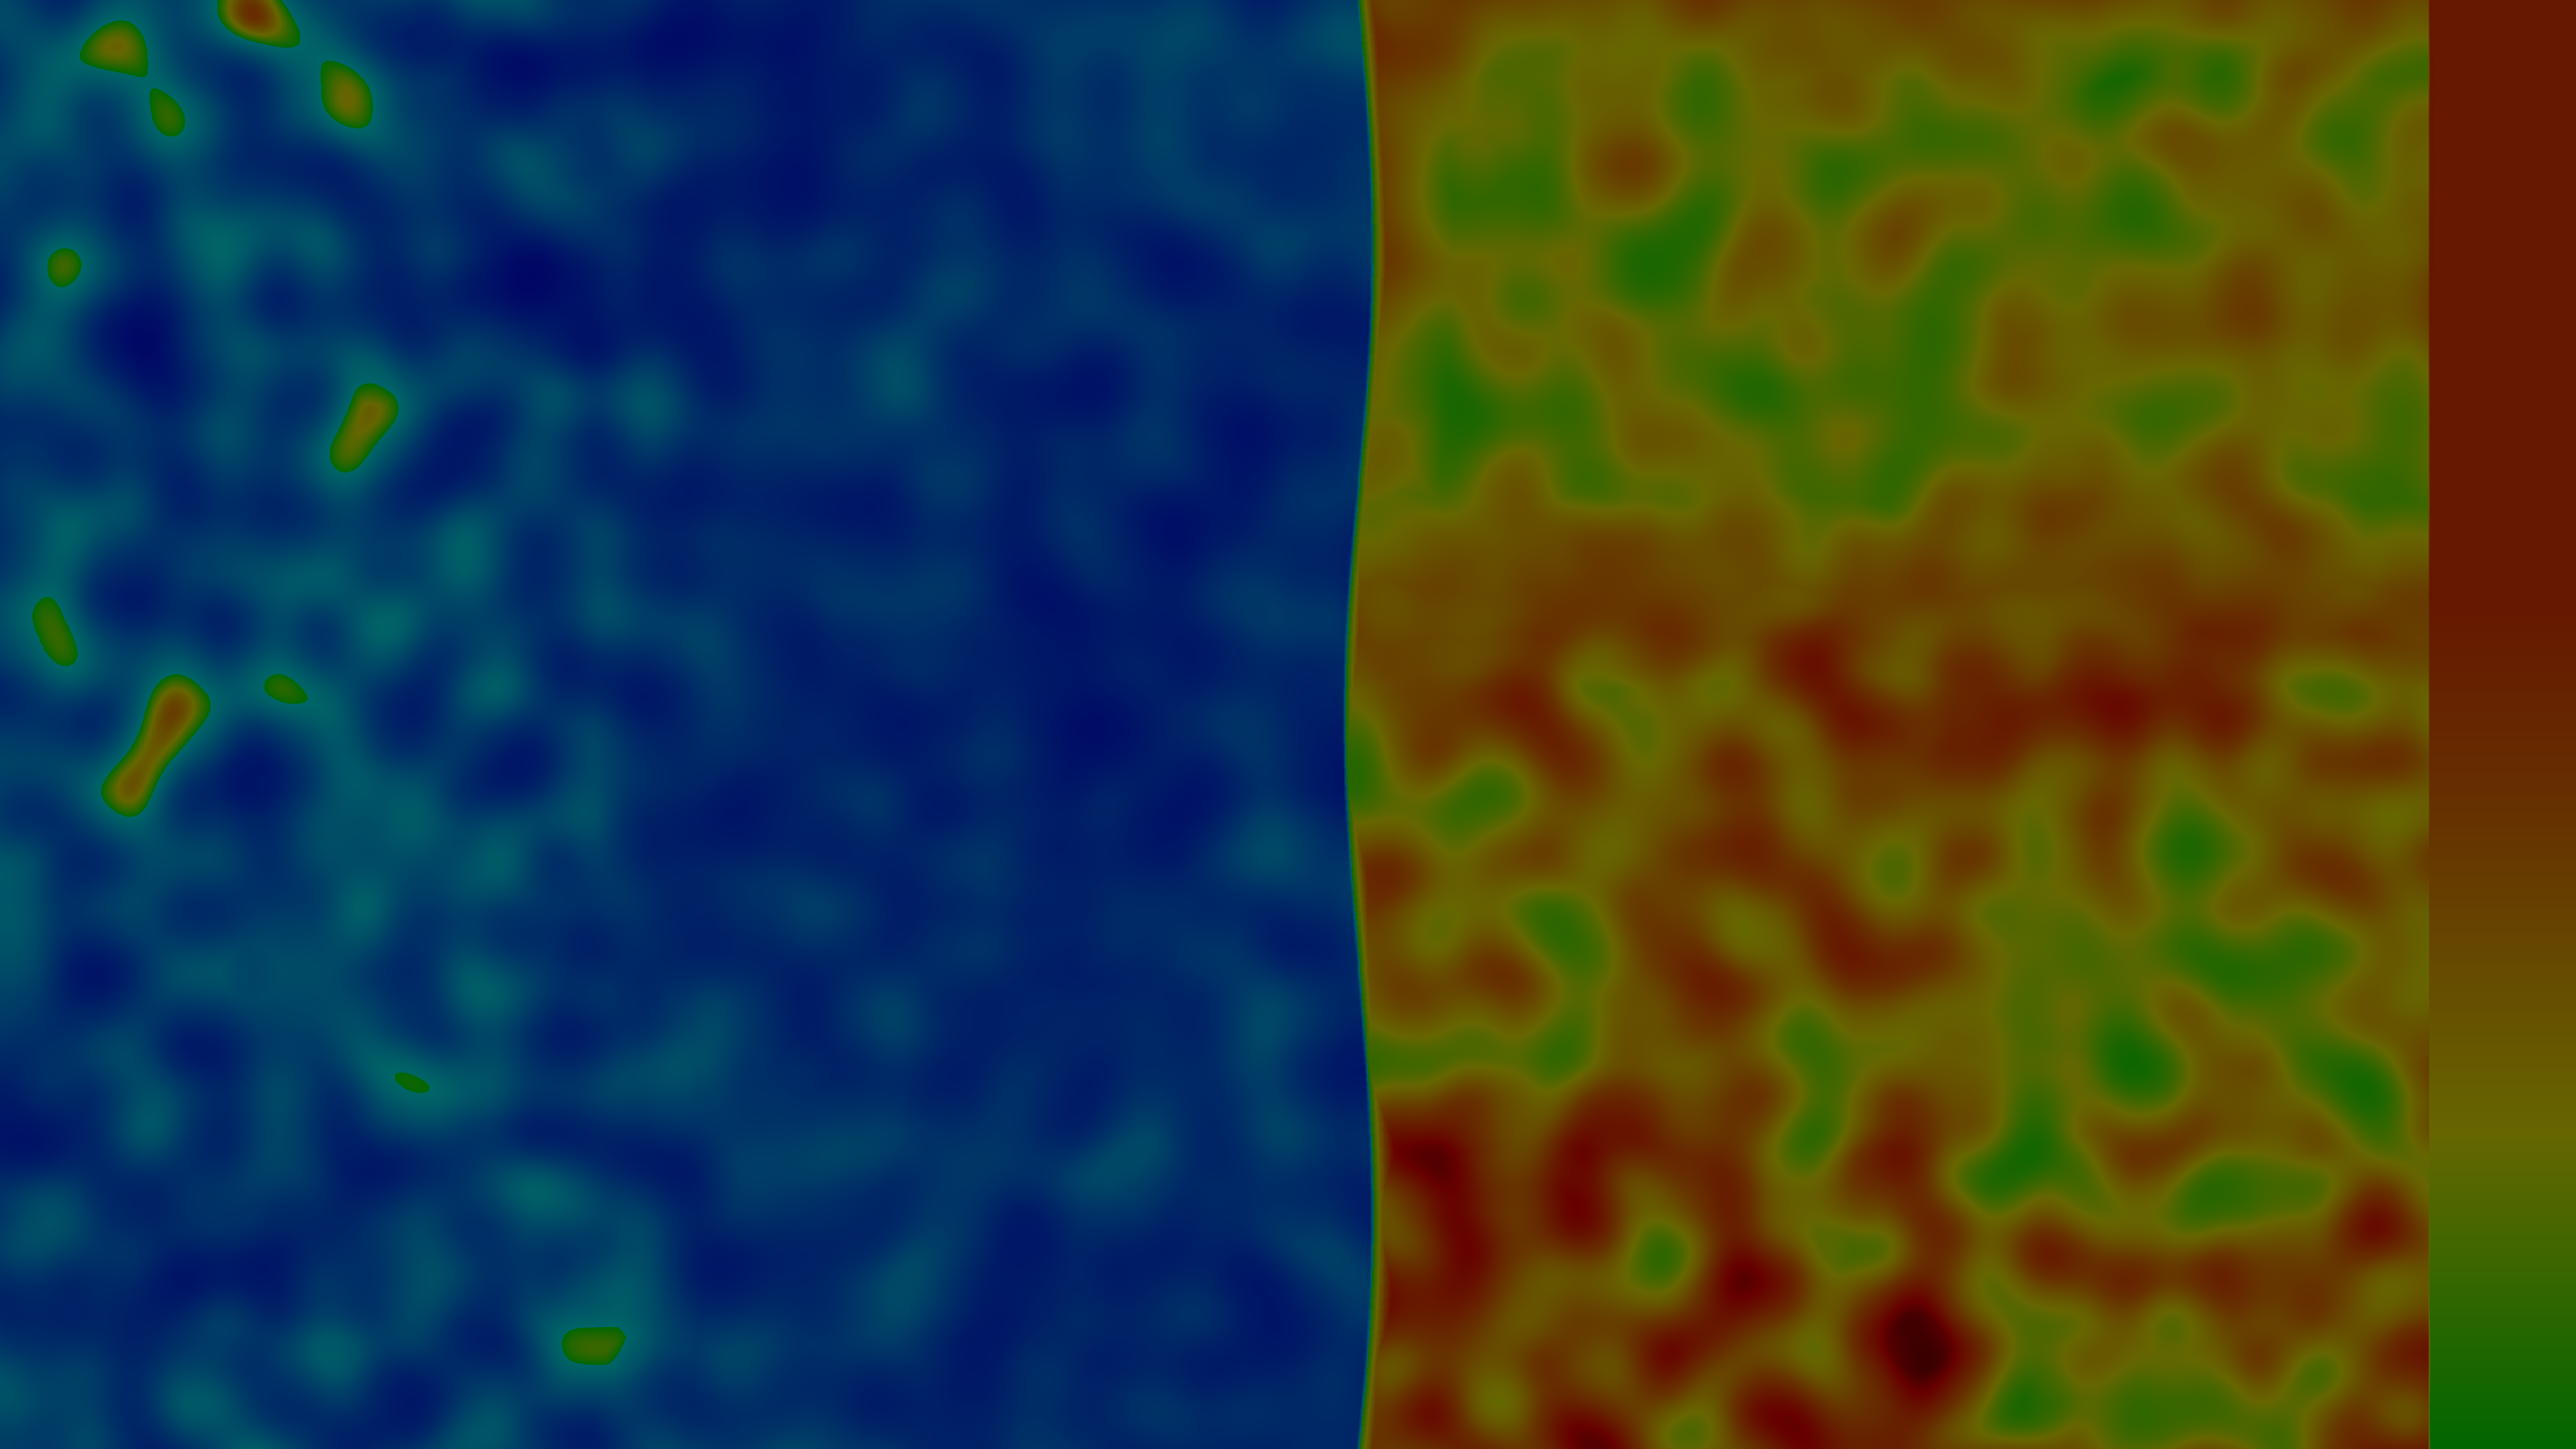
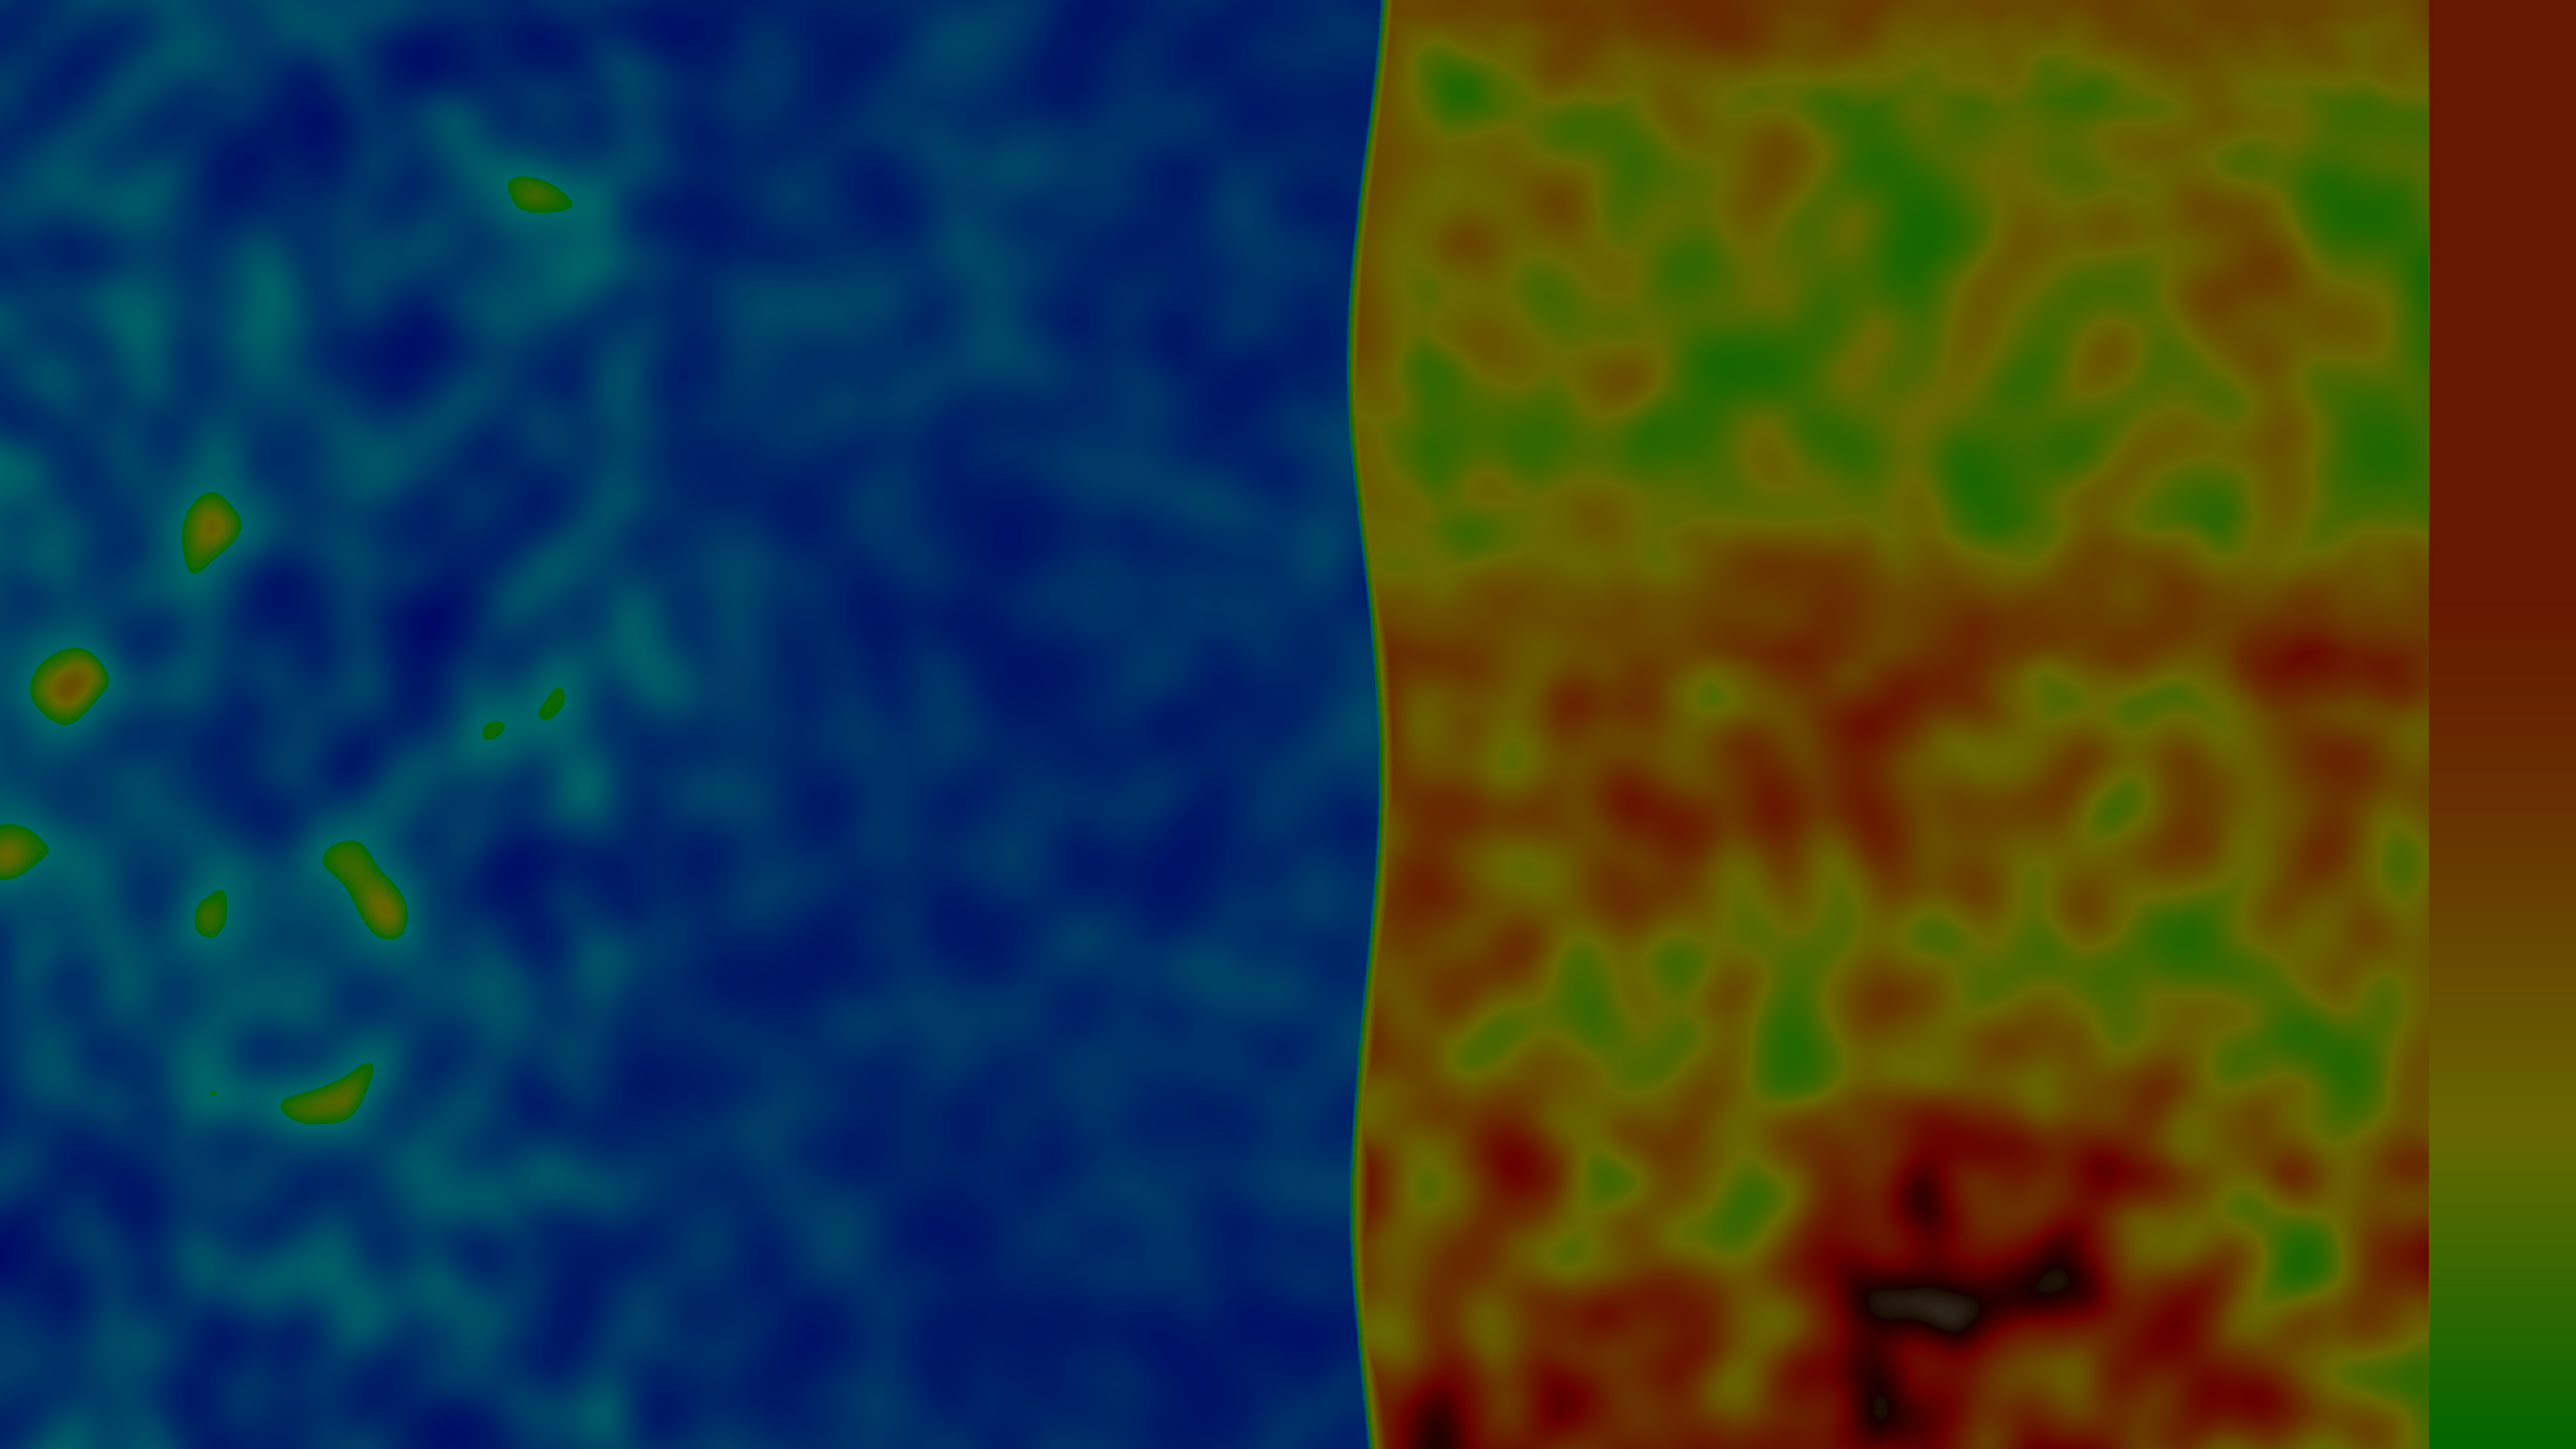
Add seasonal rainfall variation.

diff --git a/src/constants.rs b/src/constants.rs
@@ -26,13 +26,9 @@ pub const STEPS_PER_DAY: f32 = 24.0 * 6.0;
 pub const YEARS_PER_STEP: f32 = 1.0 / DAYS_PER_YEAR / STEPS_PER_DAY;
 // Above numbers are in inches per year, this can be adjusted to e.g. feet per year.
 pub const RAINFALL_FACTOR: f32 = YEARS_PER_STEP / 12.0;
-// Some dubiously realistic back-of-the-envelope math suggests maybe I should use 16.0 here,
-// but maybe I forgot a unit conversion? A multipler of about 500x is the absolute limit
-// before too little water from the main river will reach the sea.
-pub const EVAPORATION_FACTOR: f32 = RAINFALL_FACTOR * 16.0;
-
-pub const TIDES_PER_DAY: f32 = 1.933;
-pub const TIDE_INTERVAL_STEPS: f32 = STEPS_PER_DAY / TIDES_PER_DAY;
+// Some dubiously realistic back-of-the-envelope math suggested maybe I should use 4/3 and a threshold of 18 feet.
+// Or maybe 2.4 and a threshold of 10 feet?
+pub const EVAPORATION_FACTOR: f32 = YEARS_PER_STEP * 0.2;
 
 pub const ONE_DEGREE_LATITUDE_MILES: f32 = 69.05817;
 pub const RIVER_Y: usize = (4.5 * ONE_DEGREE_LATITUDE_MILES * 2.0) as usize;
@@ -51,12 +47,13 @@ pub const DELTA_SEED_WIDTH: usize = 0;
 // River runs through north desert
 pub const NORTH_DESERT_WIDTH: usize = MAIN_RIVER_WIDTH + DELTA_SEED_WIDTH;
 pub const COAST_WIDTH: usize = (72.0 * 2.0 / HEX_FACTOR) as usize;
-pub const COAST_FRINGE: usize = 12;
+pub const COAST_FRINGE: usize = 18;
 pub const NE_BASIN_FRINGE: usize = 4;
 pub const NORTH_DESERT_RAIN: f32 = (COAST_WIDTH as f32 * LOW_RAIN + (NORTH_DESERT_WIDTH - COAST_WIDTH) as f32 * VERY_LOW_RAIN) * NORTH_DESERT_HEIGHT as f32;
 // Rain on the part of the central highland whose east-west extent corresponds to the north desert.
 pub const MAIN_CENTRAL_HIGHLAND_RAIN: f32 = (COAST_WIDTH as f32 * MEDIUM_RAIN + (NORTH_DESERT_WIDTH - COAST_WIDTH) as f32 * LOW_RAIN) * CENTRAL_HIGHLAND_HEIGHT as f32;
 // An attempt to balance water in north and central regions mathematically.
+// TODO: Maybe fix at 140?
 pub const NE_BASIN_WIDTH: usize = ((MAIN_CENTRAL_HIGHLAND_RAIN - NORTH_DESERT_RAIN) / (VERY_HIGH_RAIN * NE_BASIN_HEIGHT as f32)) as usize;
 pub const TOTAL_LAND_WIDTH: usize = NE_BASIN_WIDTH + NORTH_DESERT_WIDTH;
 
@@ -67,6 +64,7 @@ pub const ISLANDS_ZONE_WIDTH: usize = TOTAL_SEA_WIDTH - NO_ISLANDS_ZONE_WIDTH;
 pub const RIVER_SOURCE_X: usize = TOTAL_SEA_WIDTH + NORTH_DESERT_WIDTH - NE_BASIN_FRINGE + 1;
 pub const SEA_LEVEL: f32 = 0.0;
 // TODO: Do we still need this? Maybe for rainfall logic.
+// Could maybe replace this with a maximum depth of surface currents of 330 feet.
 pub const CONTINENTAL_SHELF_DEPTH: f32 = 1000.0;
 
 // With Perlin noise, actual elevation will likely be lower than these numbers.
@@ -83,9 +81,9 @@ pub const KE: f32 = 1.0 / 7.0; // erosion rate fraction
 // 0.015 results in less even filling and possibly tighter rivers.
 // Too high a value may result in water sloshing back and forth drilling
 // pits in lakes, not sure where the limit is though.
-pub const KD: f32 = 0.5; // deposition rate fraction
+pub const KD: f32 = 1.0 / 7.0; // deposition rate fraction
 
-pub const FLOW_FACTOR: f32 = 0.90;
+pub const FLOW_FACTOR: f32 = 0.9;
 // Might take 7k-10k rounds to carve out the river valley I want.
 pub const DEFAULT_ROUNDS: u32 = 4_800;
 // TODO: Might be nice to have two levels of water to display in generated images,
@@ -97,7 +95,7 @@ pub const DEFAULT_ROUNDS: u32 = 4_800;
 pub const WATER_THRESHOLD: f32 = 1.0 / 12.0; // Feet
 
 
-pub const MAX_SLOPE: f32 = 1.00;
+pub const MAX_SLOPE: f32 = 0.5;
 pub const MAX_FLOW: f32 = (HEX_SIZE as f32) * MAX_SLOPE;
 // Current highest of all max elevation constants.
 pub const MAX_ELEVATION: f32 = SEA_LEVEL + SOUTH_MOUNTAINS_MAX_ELEVATION;

diff --git a/src/gpu_simulation.rs b/src/gpu_simulation.rs
@@ -400,7 +400,7 @@ impl GpuSimulation {
         // Constants buffer (rain_per_step, hex_count) – rainfall shader
         let rain_constants_buffer = device.create_buffer(&wgpu::BufferDescriptor {
             label: Some("Rainfall Constants Buffer"),
-            size: std::mem::size_of::<[f32; 6]>() as u64, // Uses 6 constants
+            size: std::mem::size_of::<[f32; 7]>() as u64, // Uses 6 constants
             usage: wgpu::BufferUsages::UNIFORM | wgpu::BufferUsages::COPY_DST,
             mapped_at_creation: false,
         });
@@ -1066,16 +1066,16 @@ impl GpuSimulation {
     }
 
     // Run all simulation steps in a single batched command encoder
-    pub fn run_simulation_step_batched(&mut self, width: usize, height: usize, sea_level: f32, flow_factor: f32, max_flow: f32) {
+    pub fn run_simulation_step_batched(&mut self, width: usize, height: usize, sea_level: f32, seasonal_rain_multiplier: f32) {
         // Update all constant buffers first
         let total_cells = width * height;
         
         // Rainfall constants
-        let rain_constants = [total_cells as f32, sea_level, EVAPORATION_FACTOR, WIDTH_HEXAGONS as f32, (TOTAL_SEA_WIDTH + NORTH_DESERT_WIDTH) as f32, CONTINENTAL_SHELF_DEPTH];
+        let rain_constants = [total_cells as f32, sea_level, seasonal_rain_multiplier, EVAPORATION_FACTOR, WIDTH_HEXAGONS as f32, (TOTAL_SEA_WIDTH + NORTH_DESERT_WIDTH) as f32, CONTINENTAL_SHELF_DEPTH];
         self.queue.write_buffer(&self.rain_constants_buffer, 0, bytemuck::cast_slice(&rain_constants));
         
         // Water routing constants
-        let routing_constants = [width as f32, height as f32, flow_factor, max_flow];
+        let routing_constants = [width as f32, height as f32, FLOW_FACTOR, MAX_FLOW];
         self.queue.write_buffer(&self.routing_constants_buffer, 0, bytemuck::cast_slice(&routing_constants));
         
         // Scatter constants - only write 2 f32s as the buffer was created for [f32; 2]

diff --git a/src/bin/print_basin_constants.rs b/src/bin/print_basin_constants.rs
@@ -1,0 +1,36 @@
+// Simple script to print NE_BASIN_HEIGHT and NE_BASIN_WIDTH
+// These values are calculated from constants defined in constants.rs
+
+fn main() {
+    // Constants needed for calculation
+    const ONE_DEGREE_LATITUDE_MILES: f32 = 69.05817;
+    const HEX_FACTOR: f32 = 0.86602540378;
+    
+    // Rainfall constants
+    const VERY_LOW_RAIN: f32 = 1.0;
+    const LOW_RAIN: f32 = 10.0;
+    const MEDIUM_RAIN: f32 = 21.0;
+    const VERY_HIGH_RAIN: f32 = 49.0;
+    
+    // Calculate derived constants
+    const NORTH_DESERT_HEIGHT: usize = (6.5 * ONE_DEGREE_LATITUDE_MILES * 2.0) as usize;
+    const NE_BASIN_HEIGHT: usize = NORTH_DESERT_HEIGHT;
+    
+    const MAIN_RIVER_WIDTH: usize = (800.0 * 2.0 / HEX_FACTOR) as usize;
+    const DELTA_SEED_WIDTH: usize = 0;
+    const NORTH_DESERT_WIDTH: usize = MAIN_RIVER_WIDTH + DELTA_SEED_WIDTH;
+    const COAST_WIDTH: usize = (72.0 * 2.0 / HEX_FACTOR) as usize;
+    
+    // Calculate CENTRAL_HIGHLAND_HEIGHT
+    const CENTRAL_HIGHLAND_HEIGHT: usize = (11.5 * ONE_DEGREE_LATITUDE_MILES * 2.0) as usize - NORTH_DESERT_HEIGHT;
+    
+    // Calculate rain values
+    const NORTH_DESERT_RAIN: f32 = (COAST_WIDTH as f32 * LOW_RAIN + (NORTH_DESERT_WIDTH - COAST_WIDTH) as f32 * VERY_LOW_RAIN) * NORTH_DESERT_HEIGHT as f32;
+    const MAIN_CENTRAL_HIGHLAND_RAIN: f32 = (COAST_WIDTH as f32 * MEDIUM_RAIN + (NORTH_DESERT_WIDTH - COAST_WIDTH) as f32 * LOW_RAIN) * CENTRAL_HIGHLAND_HEIGHT as f32;
+    
+    // Calculate NE_BASIN_WIDTH
+    const NE_BASIN_WIDTH: usize = ((MAIN_CENTRAL_HIGHLAND_RAIN - NORTH_DESERT_RAIN) / (VERY_HIGH_RAIN * NE_BASIN_HEIGHT as f32)) as usize;
+    
+    println!("NE_BASIN_HEIGHT: {}", NE_BASIN_HEIGHT);
+    println!("NE_BASIN_WIDTH: {}", NE_BASIN_WIDTH);
+}

diff --git a/src/main.rs b/src/main.rs
@@ -286,6 +286,8 @@ fn simulate_erosion(
 
     for step_offset in 0..steps {
         let step = starting_step + step_offset;
+        let seasonal_rain_multiplier = 1.0 + (step as f32 * 2.0 * std::f32::consts::PI * YEARS_PER_STEP + std::f32::consts::PI).cos();
+
         if step % log_steps == 0 {
             let gpu_hex_data = gpu_sim.download_hex_data();
             for (idx, h) in gpu_hex_data.iter().enumerate() {
@@ -408,7 +410,7 @@ fn simulate_erosion(
                 wet_cells,
                 wet_cells_percentage
             );
-            println!("  sea level: {:.3} ft", current_sea_level);
+            println!("  sea level: {:.3} ft  seasonal rain multiplier: {:.3}", current_sea_level, seasonal_rain_multiplier);
             println!(
                 "  source elevation {:.3} ft  source water depth {:.3} ft  outlet elevation {:.3} ft  target delta elevation {:.3} ft",
                 source_hex.elevation - current_sea_level,
@@ -453,7 +455,7 @@ fn simulate_erosion(
         // let tidal_adjustment: f32 = 3.0 * (2.0 * f32::PI * step as f32 / TIDE_INTERVAL_STEPS as f32).sin();
         let tidal_adjustment: f32 = 0.0;
 
-        gpu_sim.run_simulation_step_batched(width, height, current_sea_level + tidal_adjustment, FLOW_FACTOR, MAX_FLOW);
+        gpu_sim.run_simulation_step_batched(width, height, current_sea_level + tidal_adjustment, seasonal_rain_multiplier);
         current_sea_level = SEA_LEVEL + 0.02 * YEARS_PER_STEP * step as f32;
     }
 
